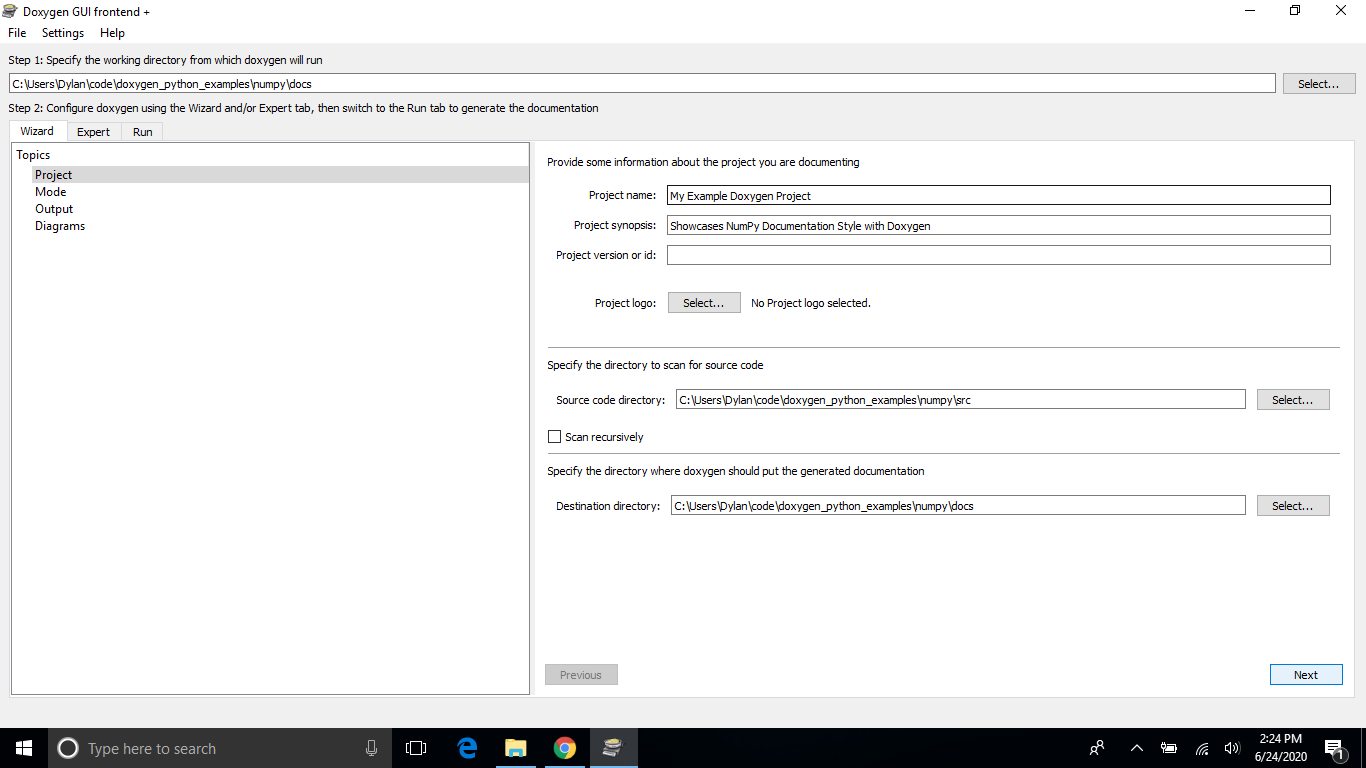
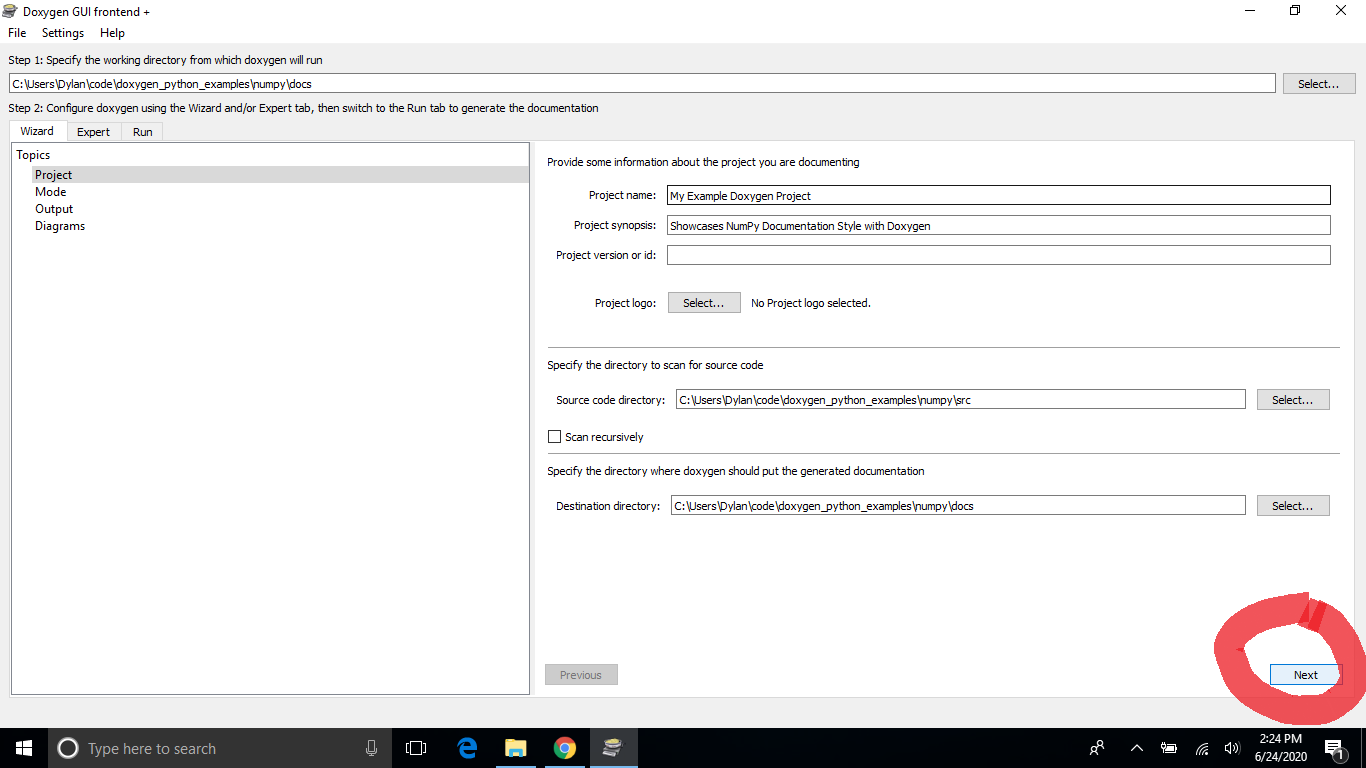
Finished Doxygen documentation
I've finished up the documentation on using Doxygen

Changed region(s): [[0.8917, 0.75, 1.0, 0.9688]]

diff --git a/docs/pages/documentation/generating_doxygen_documenation/doxygen_example.md b/docs/pages/documentation/generating_doxygen_documenation/doxygen_example.md
@@ -26,13 +26,21 @@ This page goes over the steps required to generate Doxygen documentation from co
     ![Step 6](imgs/step_6.png)
 7. In the main GUI menu, select the `Scan recursively` checkbox.
     ![Step 7](imgs/step_7.png)
-8. 
-![Step 8](imgs/step_8.png)
-![Step 9](imgs/step_9.png)
-![Step 10](imgs/step_10.png)
-![Step 11](imgs/step_11.png)
-![Step 12](imgs/step_12.png)
-![Step 13](imgs/step_13.png)
-![Step 14](imgs/step_14.png)
-![Step 15](imgs/step_15.png)
-![Step 16](imgs/step_16.png)
+8. Press the `Select...` button to choose the directory where the generated documentation will go. 
+    ![Step 8](imgs/step_8.png)
+9. Click the `Select Folder` button on the pop-up dialog. You won't have to select a new folder if you followed step 3 correctly.
+    ![Step 9](imgs/step_9.png)
+10. Click the `Next` button to advance to the "Mode" menu.
+    ![Step 10](imgs/step_10.png)
+11. Select the "All Entities", "Include cross-referenced source code in the output", and "Optimize for Java or C# output" options and click the `Next` button to advance the the "Output" menu.
+    ![Step 11](imgs/step_11.png)
+12. Under the "HTML" options, select "with navigation panel". Deselct the "LaTeX" option. Click the `Next` button to advance the "Diagrams" menu.
+    ![Step 12](imgs/step_12.png)
+13. Click the `Next` button to advance to the "Run" menu. You don't need to do any customization here.
+    ![Step 13](imgs/step_13.png)
+14. Click the `Run Doxygen` button and allow Doxygen to run.
+    ![Step 14](imgs/step_14.png)
+15. Click the `Show HTML output` button.
+    ![Step 15](imgs/step_15.png)
+16. Verify that the documentation was generated correctly. And begin exploring your documented code!
+    ![Step 16](imgs/step_16.png)
